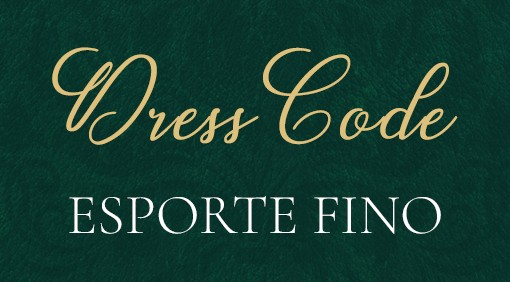
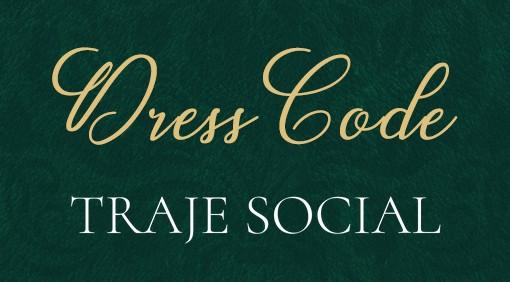
Add files via upload

Changed region(s): [[0.1176, 0.6809, 0.8824, 0.8511]]

diff --git a/index.html b/index.html
@@ -223,7 +223,7 @@
   <img class="el fx-sobe" data-g="g3" style="left:31.4815%;top:57.1501%;width:37.0370%;--d:1500ms" src="img/ano.webp" alt="2027" decoding="async">
   <img class="el fx-blur" data-g="g3" style="left:31.4815%;top:59.0297%;width:37.0370%;--d:1900ms" src="img/hora.webp" alt="às 21 horas" decoding="async">
   <div class="el fx-escrita" data-g="g4" style="left:26.5741%;top:63.6271%;width:46.8519%;--d:0ms"><img src="img/dresstit.webp" alt="Dress code"><i class="faisca"></i></div>
-  <img class="el fx-spread" data-g="g4" style="left:28.4259%;top:65.5321%;width:43.6111%;--d:700ms" src="img/dress.webp" alt="Esporte fino" decoding="async">
+  <img class="el fx-spread" data-g="g4" style="left:28.4259%;top:65.5321%;width:43.6111%;--d:700ms" src="img/dress.webp" alt="Traje social" decoding="async">
   <div class="el fx-escrita" data-g="g5" style="left:25.1852%;top:67.9070%;width:49.9074%;--d:0ms"><img src="img/localtit.webp" alt="Localização"><i class="faisca"></i></div>
   <img class="el fx-wipe" data-g="g5" style="left:11.2963%;top:69.9771%;width:77.4074%;--d:700ms" src="img/end1.webp" alt="Cerimonial Caminho das Árvores" decoding="async">
   <img class="el fx-wipe" data-g="g5" style="left:11.2963%;top:70.5740%;width:77.4074%;--d:950ms" src="img/end2.webp" alt="Alameda das Framboesas, 151 -" decoding="async">
